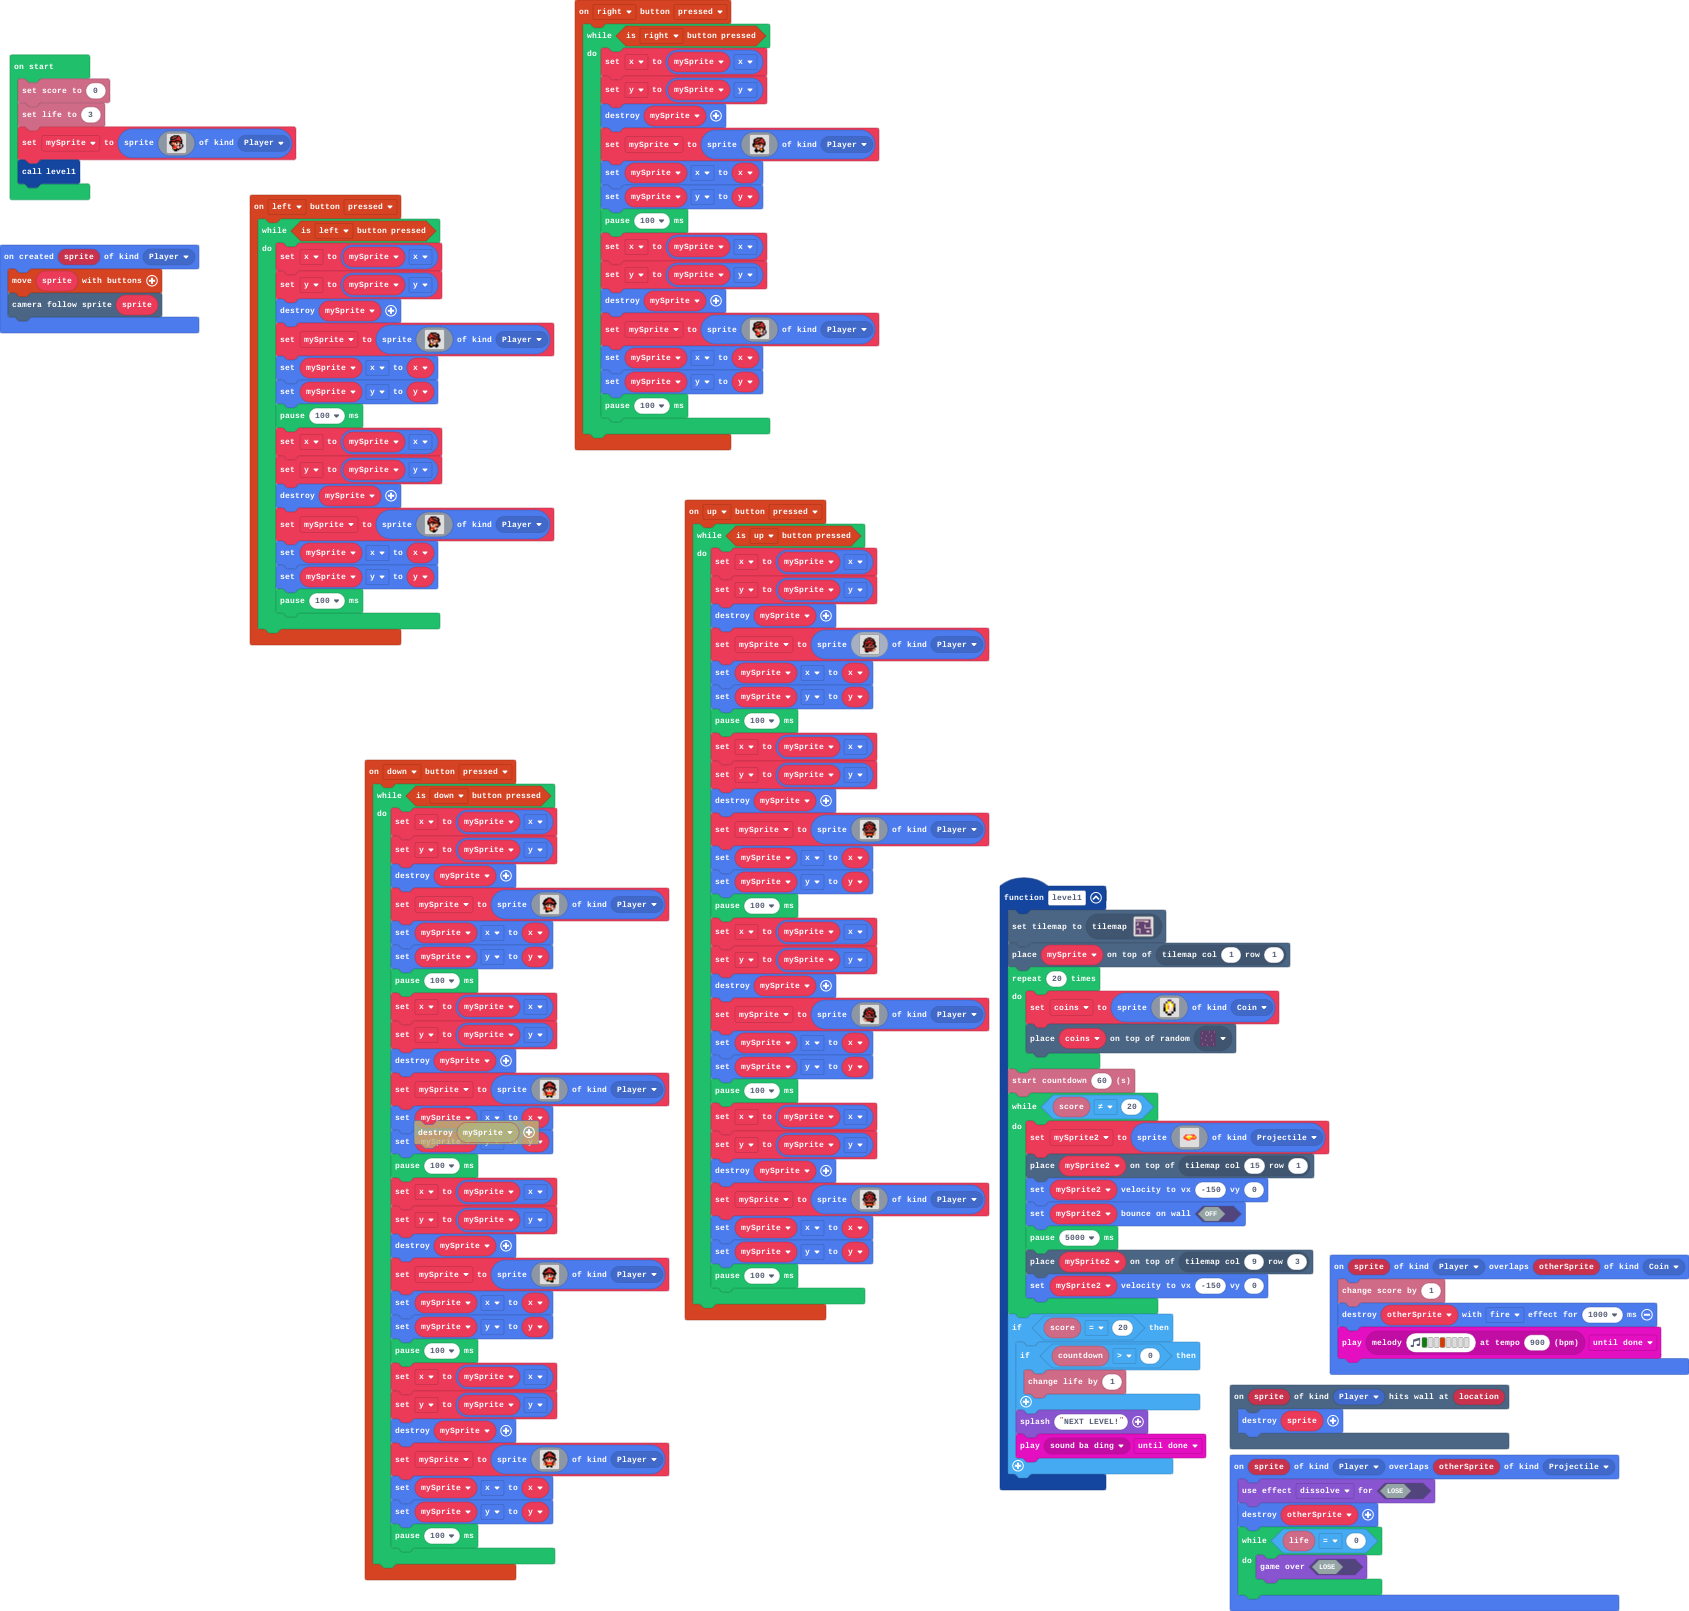
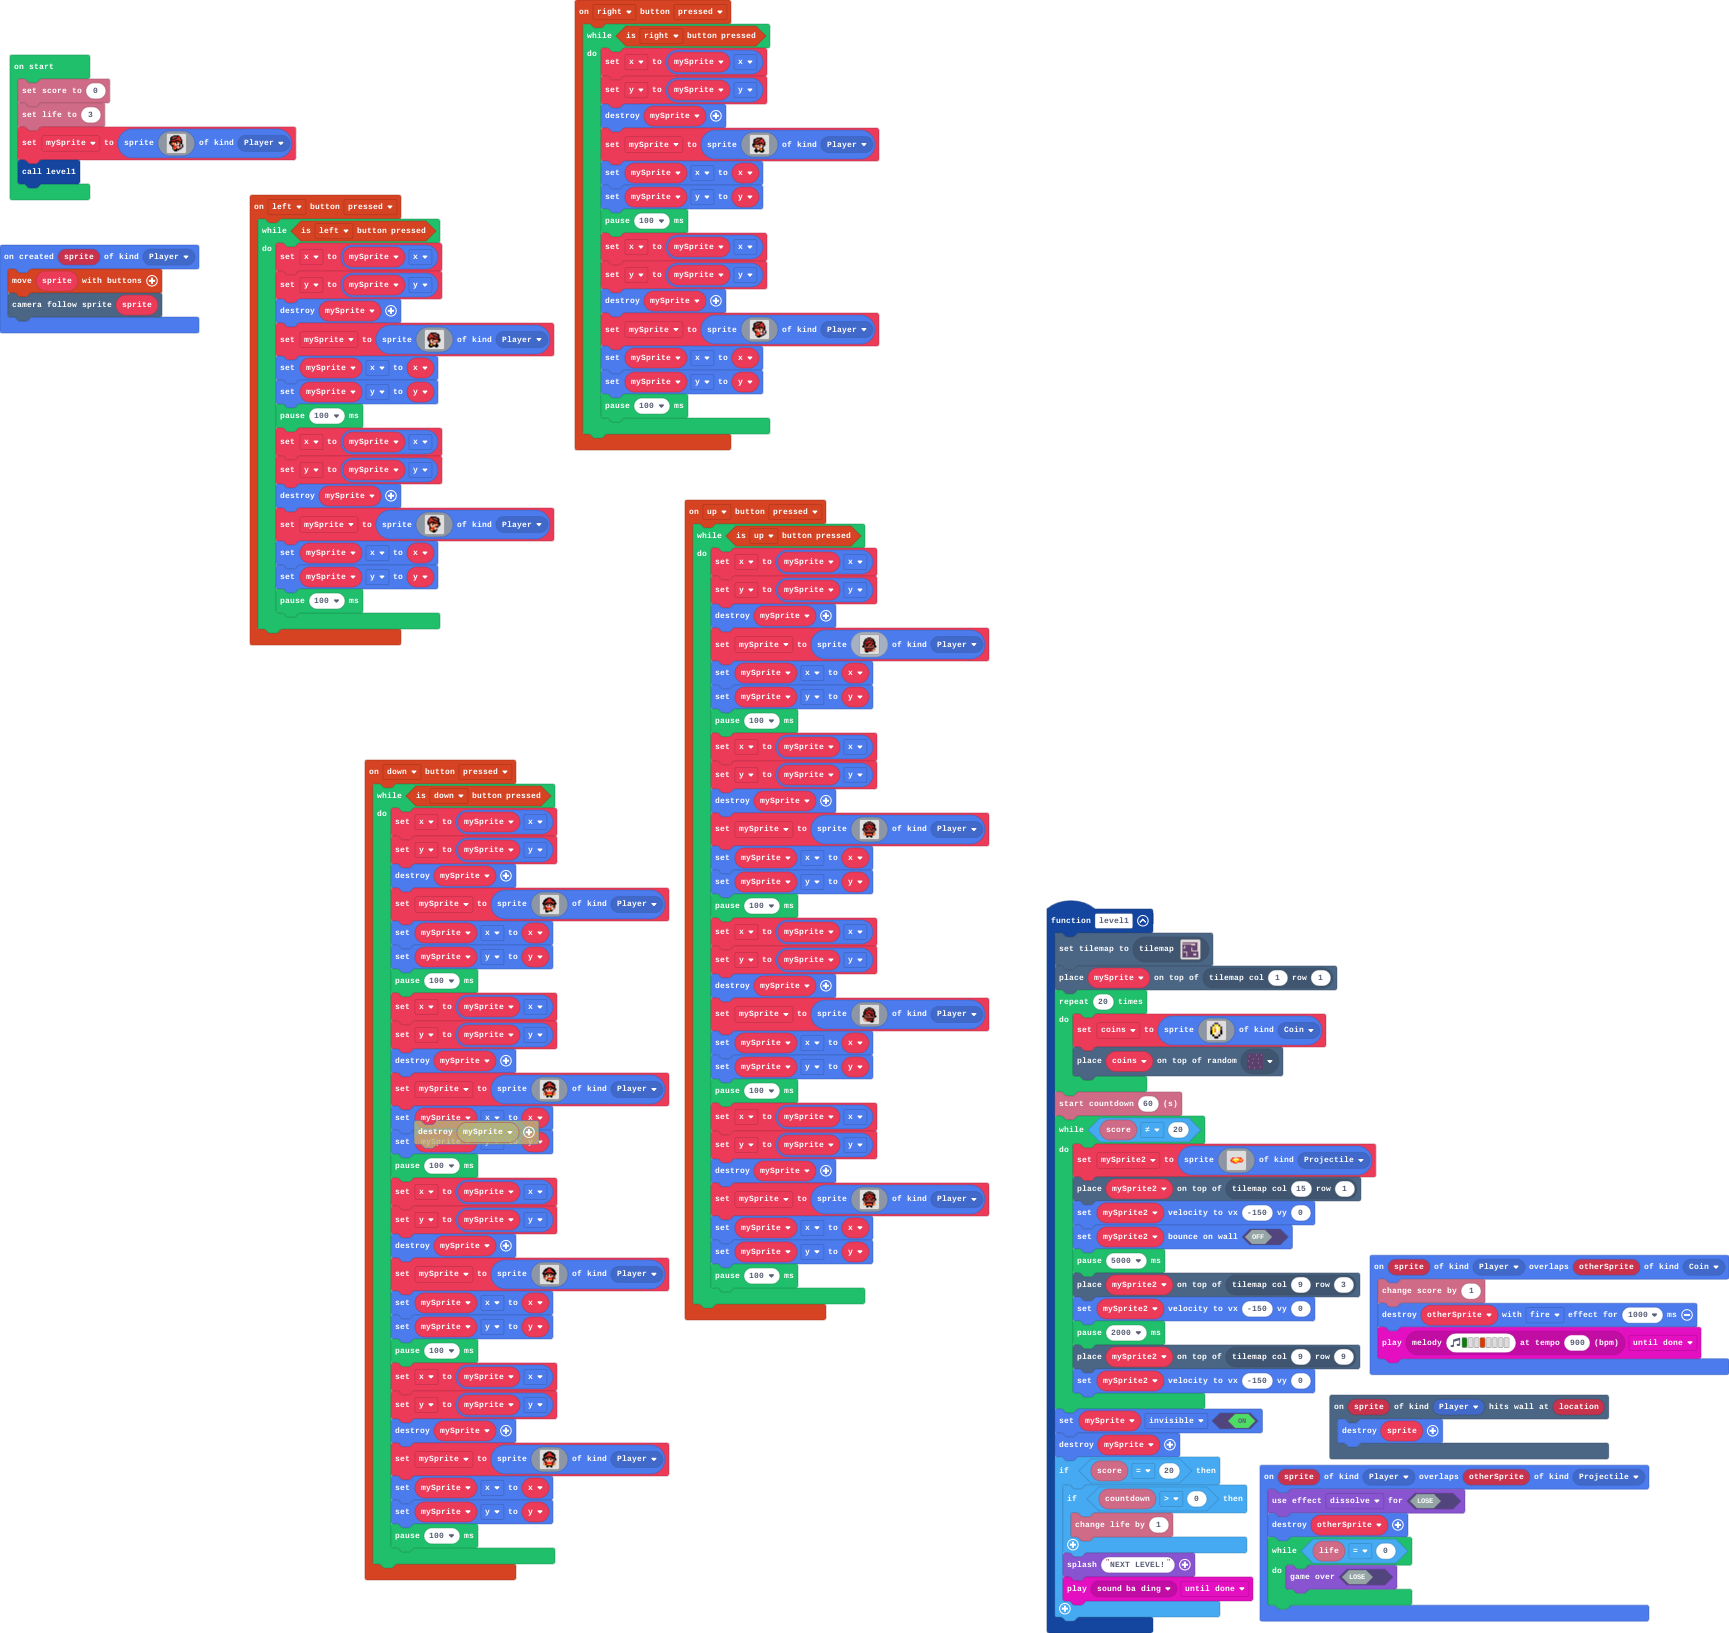
Update main.blocks, main.ts

Changed region(s): [[0.0, 0.0, 1.0, 1.0]]

diff --git a/main.ts b/main.ts
@@ -151,7 +151,12 @@ function level1 () {
         pause(5000)
         tiles.placeOnTile(mySprite2, tiles.getTileLocation(9, 3))
         mySprite2.setVelocity(-150, 0)
+        pause(2000)
+        tiles.placeOnTile(mySprite2, tiles.getTileLocation(9, 9))
+        mySprite2.setVelocity(-150, 0)
     }
+    mySprite.setFlag(SpriteFlag.Invisible, true)
+    sprites.destroy(mySprite)
     if (info.score() == 20) {
         if (info.countdown() > 0) {
             info.changeLifeBy(1)
